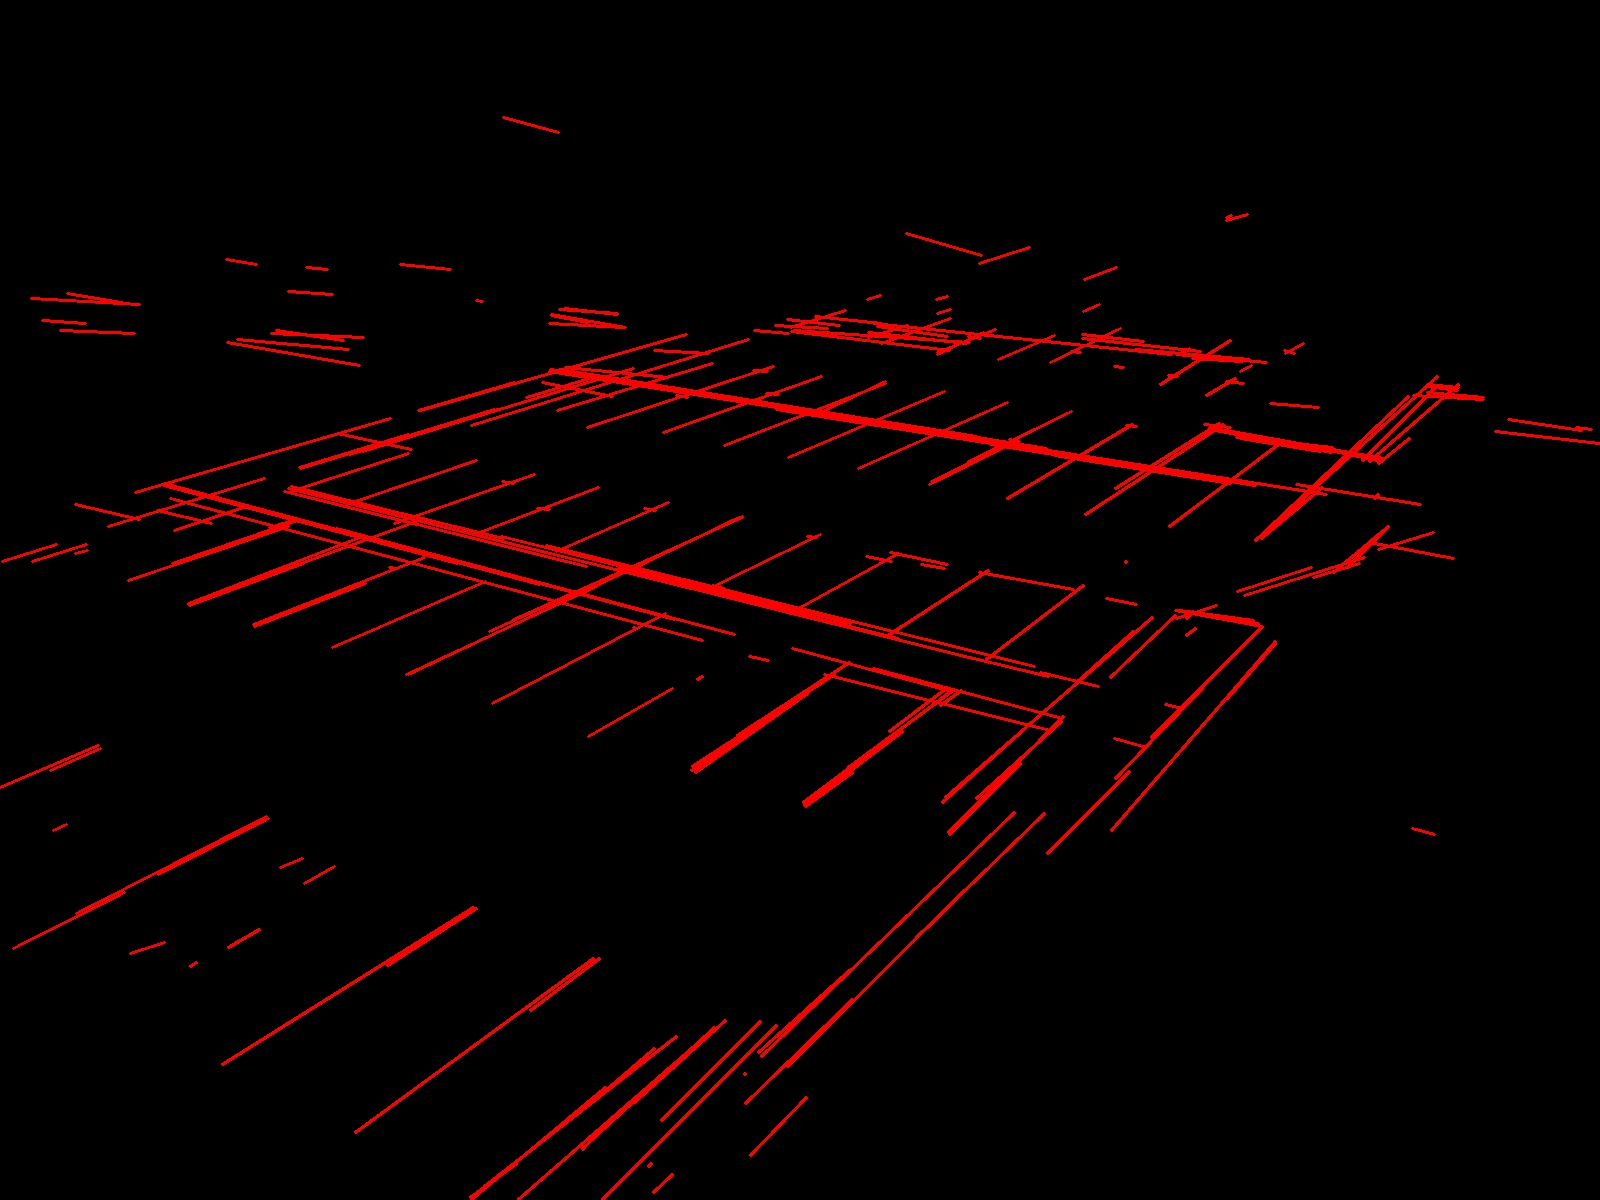
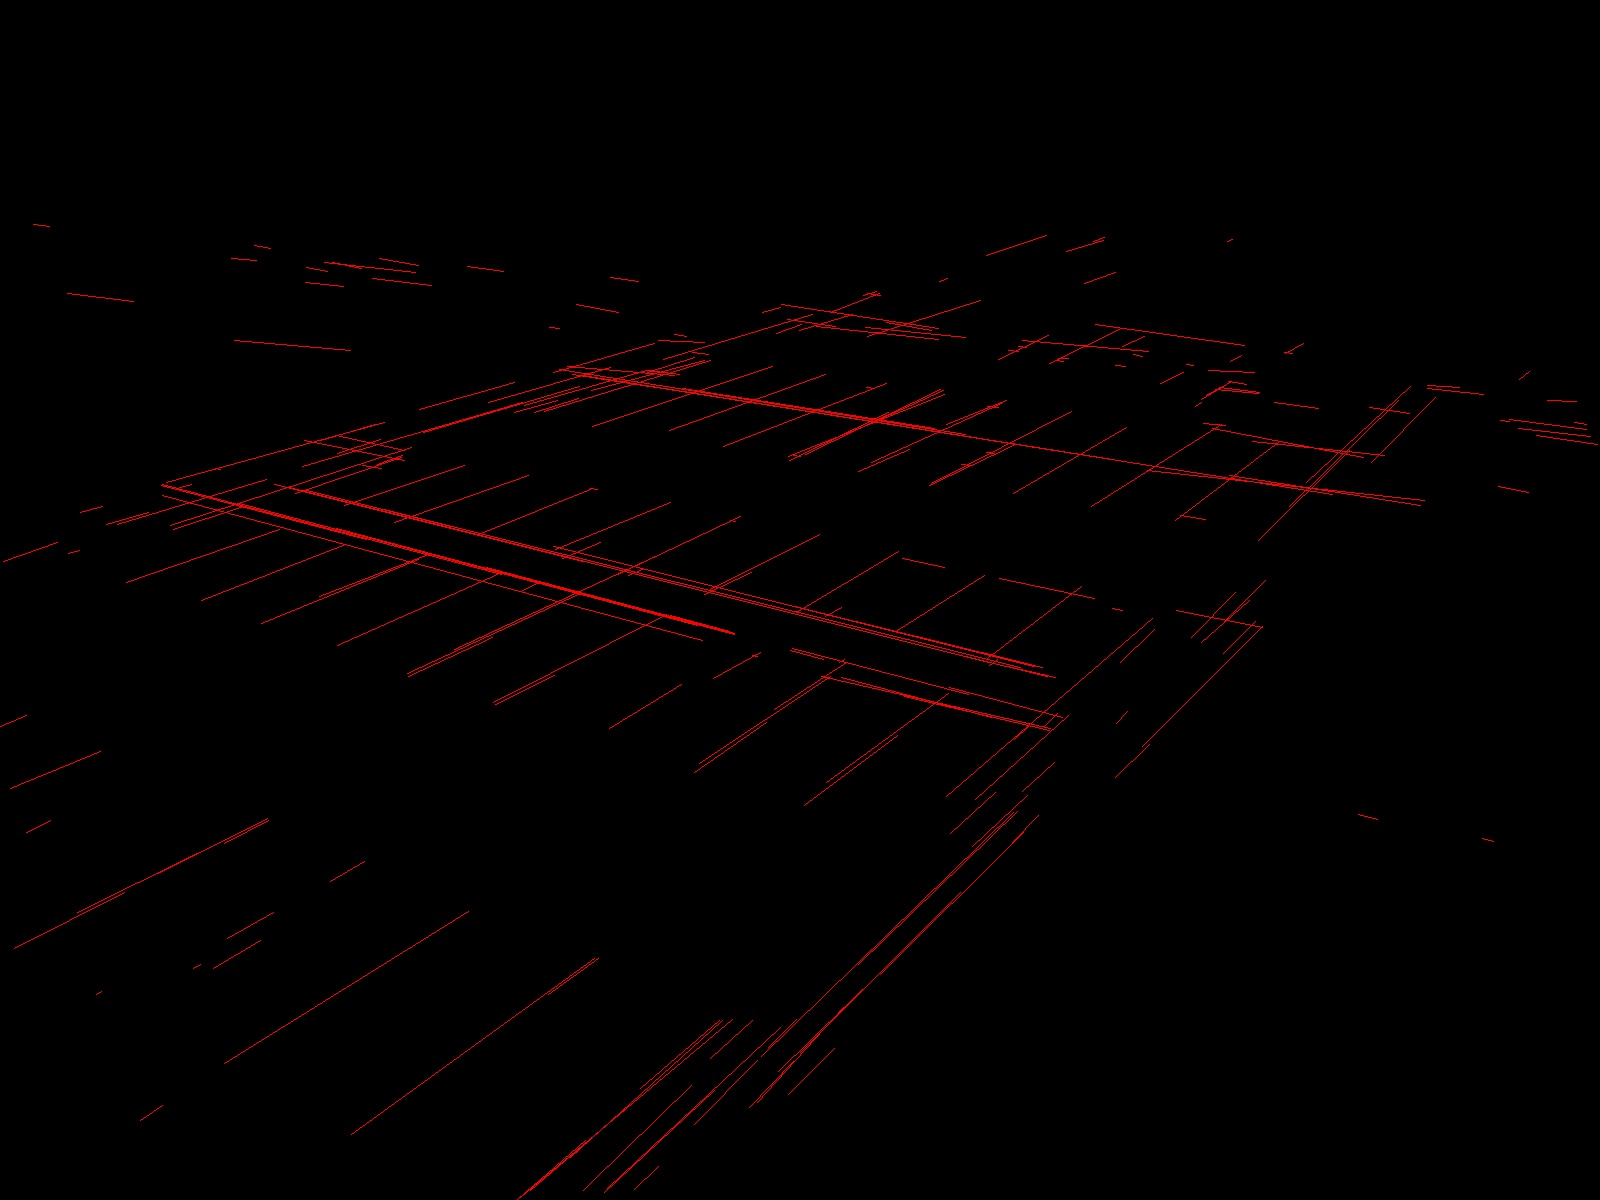
Ajustes finais

diff --git a/src/main.cpp b/src/main.cpp
@@ -29,13 +29,12 @@ Mat ExtractFeatureMat(Mat featuresMat, int featureNum);
 #define DIST_RES 1
 #define ANGLE_RES M_PI/180.
 #define HOUGH_THRES 300 // Acumulador
-#define HOUGHP_THRES 150 // Acumulador
-#define MIN_LINE_LEN 0
+#define HOUGHP_THRES 75 // Acumulador
+#define MIN_LINE_LEN 5
 #define MAX_LINE_GAP 25
 #define TAM_DILATA 7 // Pixels
 #define TAM_ERODE 5 // Pixels
 #define TAM_LINE 3000 // Pixels
-#define ANGLE_THRES 0.25*M_PI/180.
 
 // Termina Hough
 
@@ -394,7 +393,7 @@ int main(int argc, char** argv){
 				Vec2f lineI = ConvertSegLineToLine(segLines[i]);
 				unsigned int j;
 				for(j = 0; j < linesDirections.size(); j++) {
-					if(linesSimilarity(linesDirections[j], lineI, 1000000) > 0.95) {
+					if(linesSimilarity(linesDirections[j], lineI, 1000) > 0.95) {
 						break;
 					}
 				}
@@ -404,13 +403,13 @@ int main(int argc, char** argv){
 			}
 
 			// Compute e desenha a clusterização adaptativa
-			std::vector<Vec4i> clusters = AKM(segLines, SEGLINE_THRES);
+			std::vector<Vec4i> clusters = AKM(segLines, SEGLINE_THRES, 100);
 		
 			Mat houghWithClusteredLines = Mat::zeros(gray.rows, gray.cols, gray.type());
 			// Mat houghWithClusteredLines = operado.clone();
 			cvtColor(houghWithClusteredLines, houghWithClusteredLines, COLOR_GRAY2BGR);
 			for( unsigned int i = 0; i < clusters.size(); i++ ) {
-				line( houghWithClusteredLines, Point(clusters[i][0], clusters[i][1]), Point(clusters[i][2], clusters[i][3]), Scalar(0,0,255), 2, 8 );
+				line( houghWithClusteredLines, Point(clusters[i][0], clusters[i][1]), Point(clusters[i][2], clusters[i][3]), Scalar(0,0,255), 1, 8 );
 			}
 		
 			// imshow("Hough - Segmento de Linhas Clusterizado", houghWithClusteredLines);
